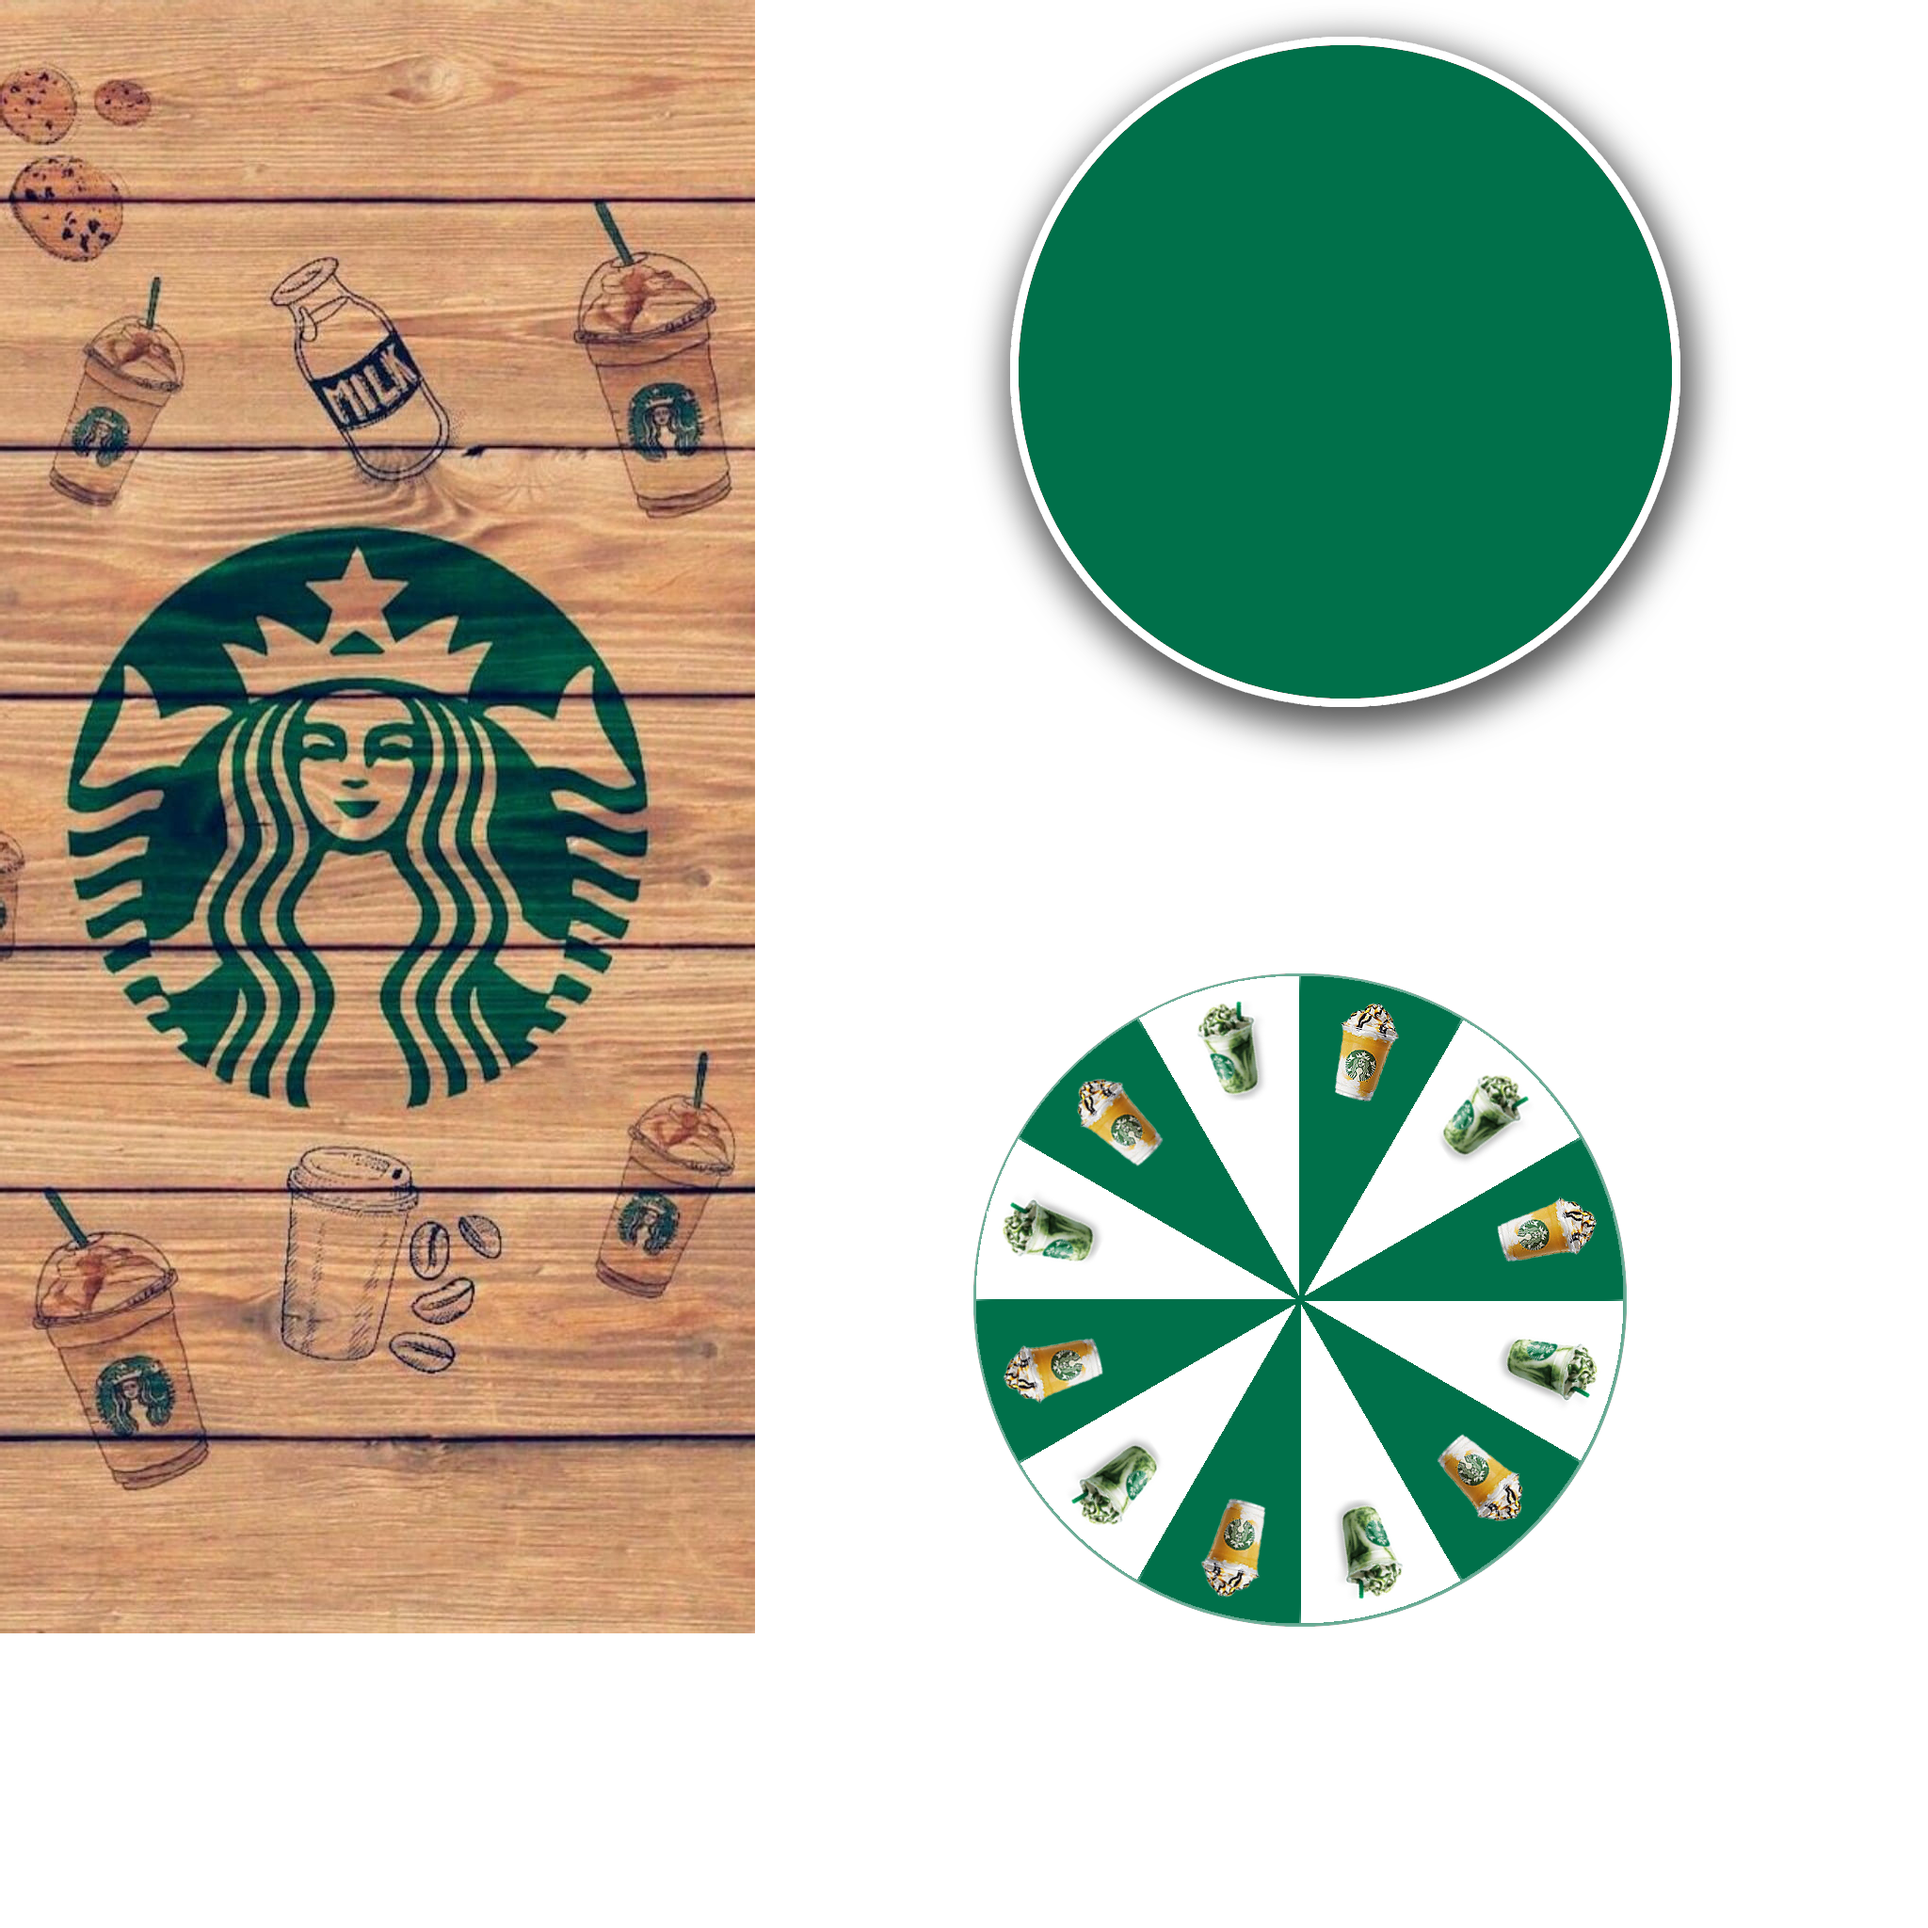
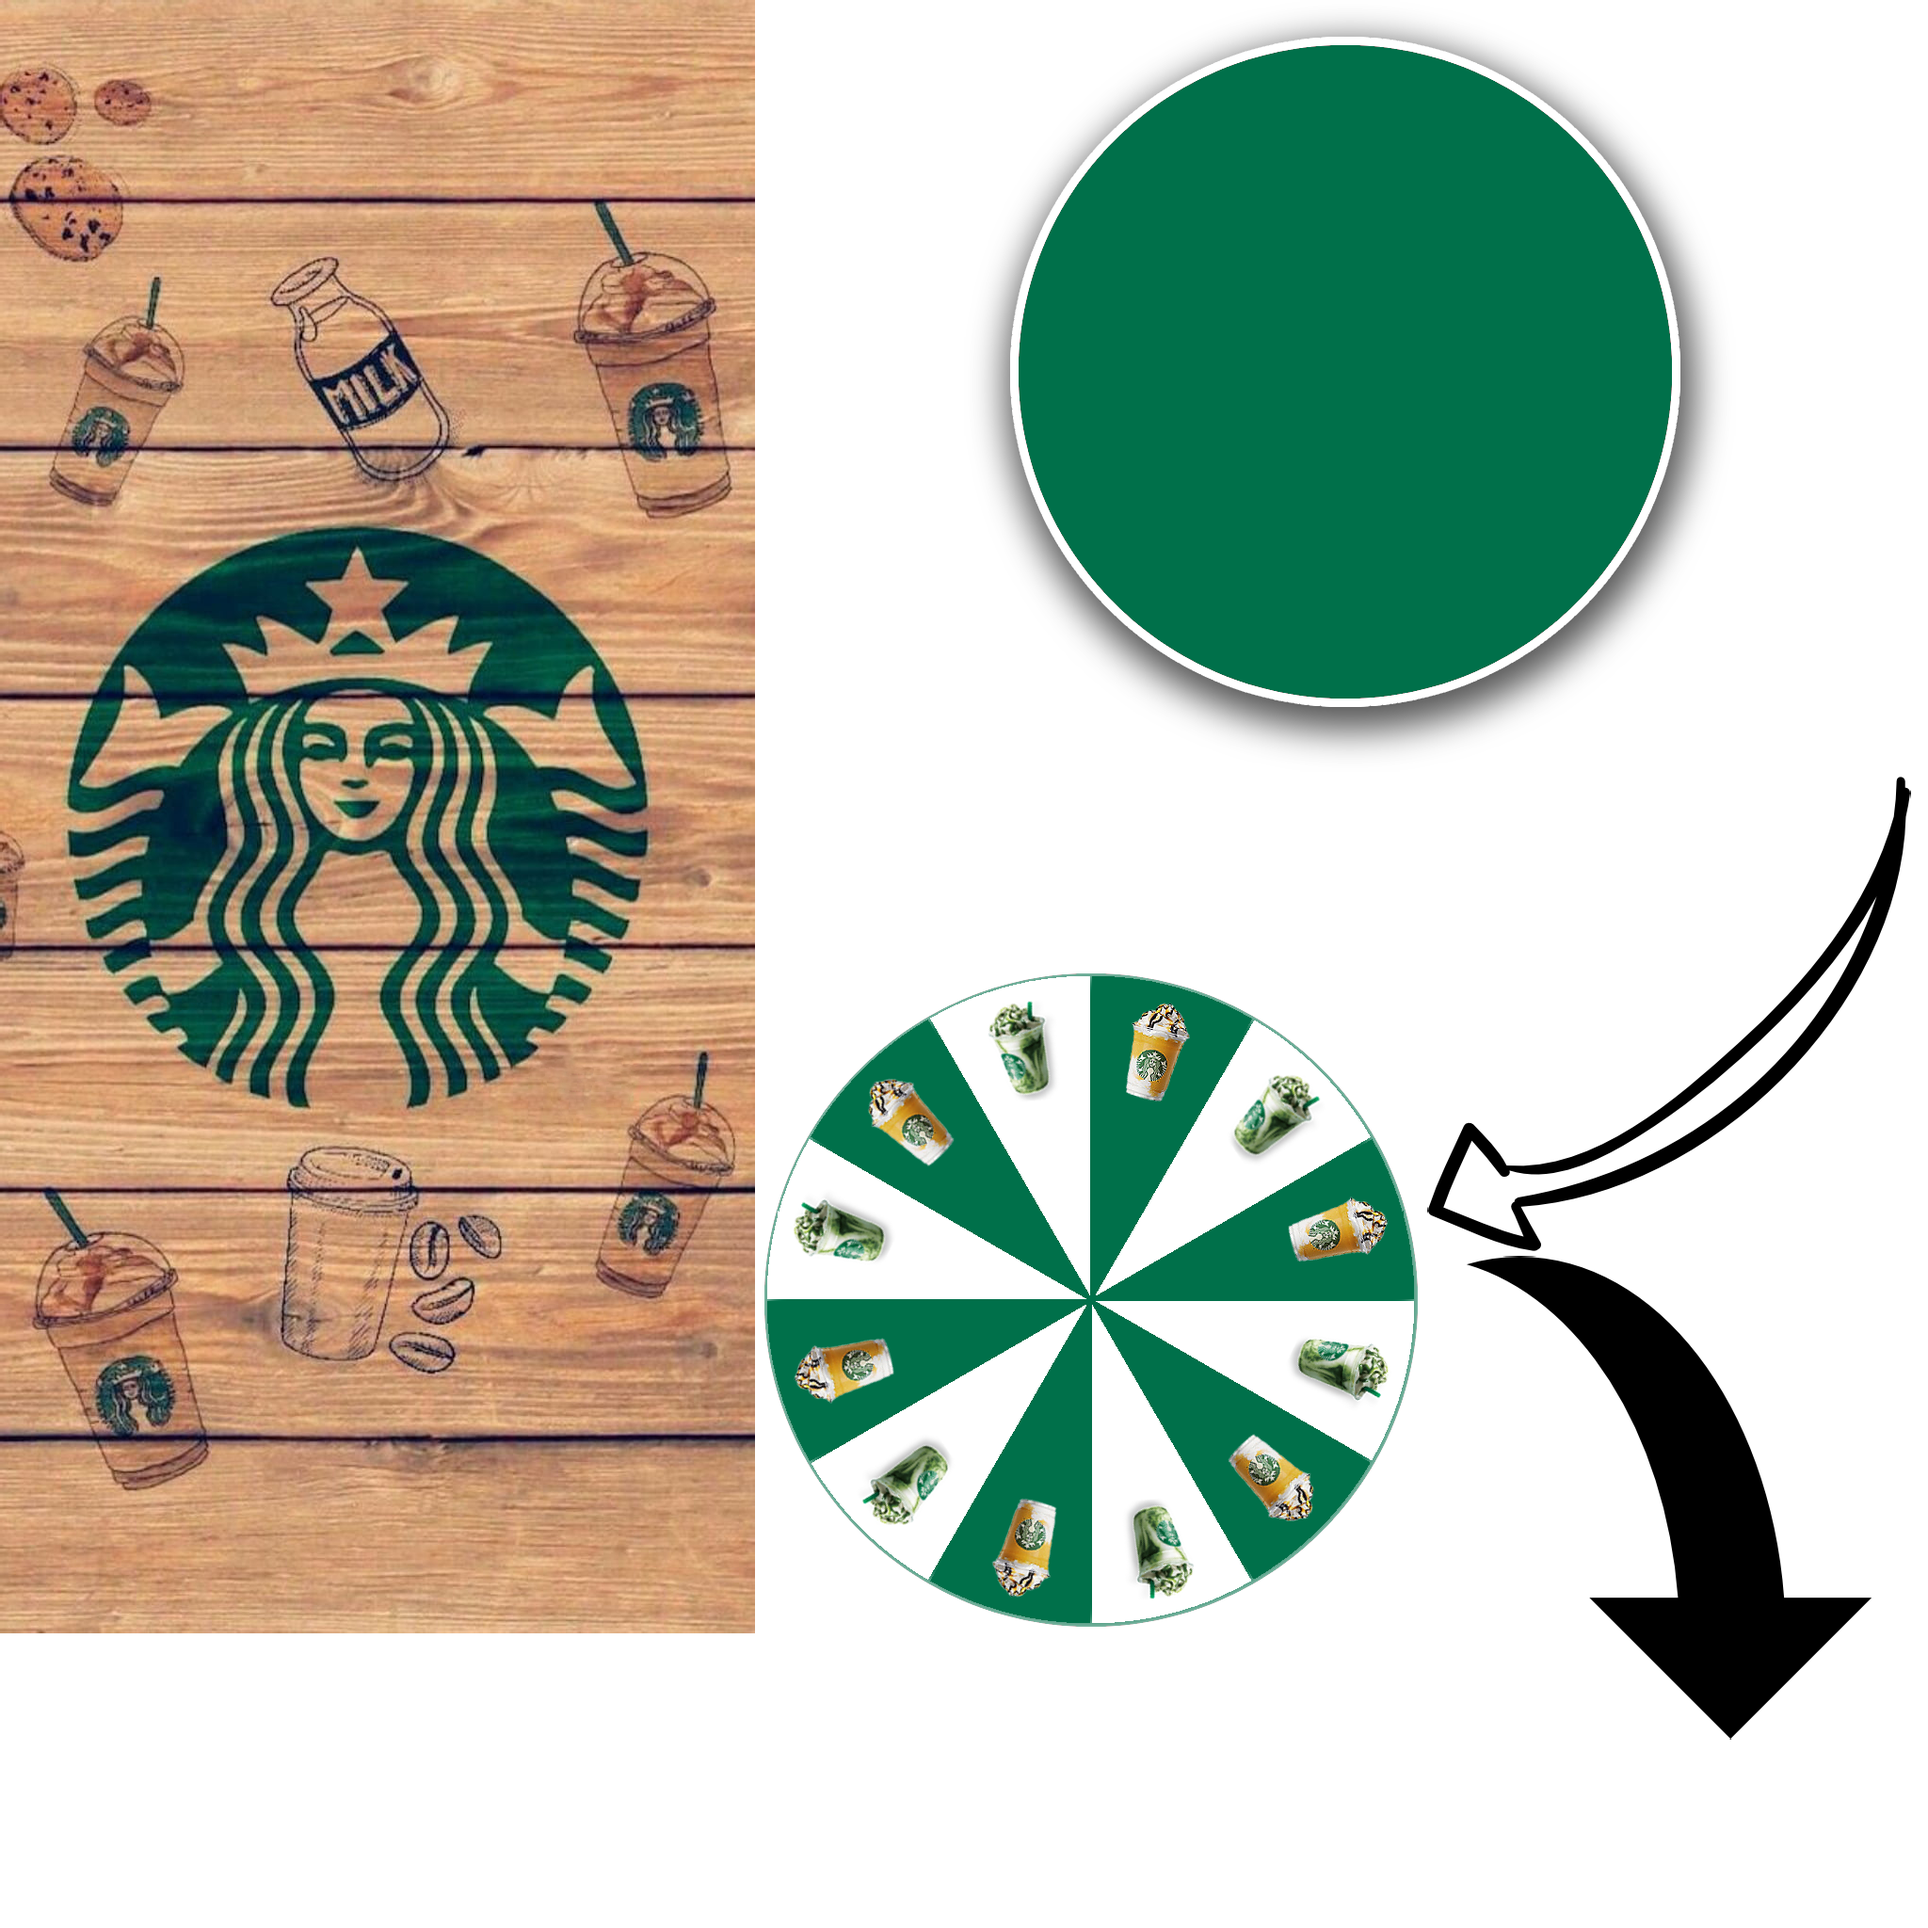
fix prize calculation

Changed region(s): [[0.375, 0.4062, 1.0, 0.9062]]

diff --git a/scripts/c3runtime.js b/scripts/c3runtime.js
@@ -4135,6 +4135,8 @@ self.C3_JsPropNameTable = [
 	{Text: 0},
 	{wheelbase: 0},
 	{Particles: 0},
+	{curvedownarrow: 0},
+	{rightdrawnarrow: 0},
 	{isSpinning: 0}
 ];
 }
@@ -4245,12 +4247,13 @@ self.C3_ExpressionFuncs = [
 			const f0 = p._GetNode(0).GetBoundMethod();
 			return () => f0();
 		},
-		() => 500,
+		() => 250,
 		p => {
 			const f0 = p._GetNode(0).GetBoundMethod();
 			return () => f0(0);
 		},
-		() => 90,
+		() => 45,
+		() => 135,
 		p => {
 			const f0 = p._GetNode(0).GetBoundMethod();
 			return () => (f0(200) + 300);
@@ -4258,7 +4261,7 @@ self.C3_ExpressionFuncs = [
 		() => -75,
 		p => {
 			const n0 = p._GetNode(0);
-			return () => (Math.floor(((n0.ExpObject() / 30) - 1)) % 2);
+			return () => (Math.floor((n0.ExpObject() / 30)) % 2);
 		}
 ];
 
